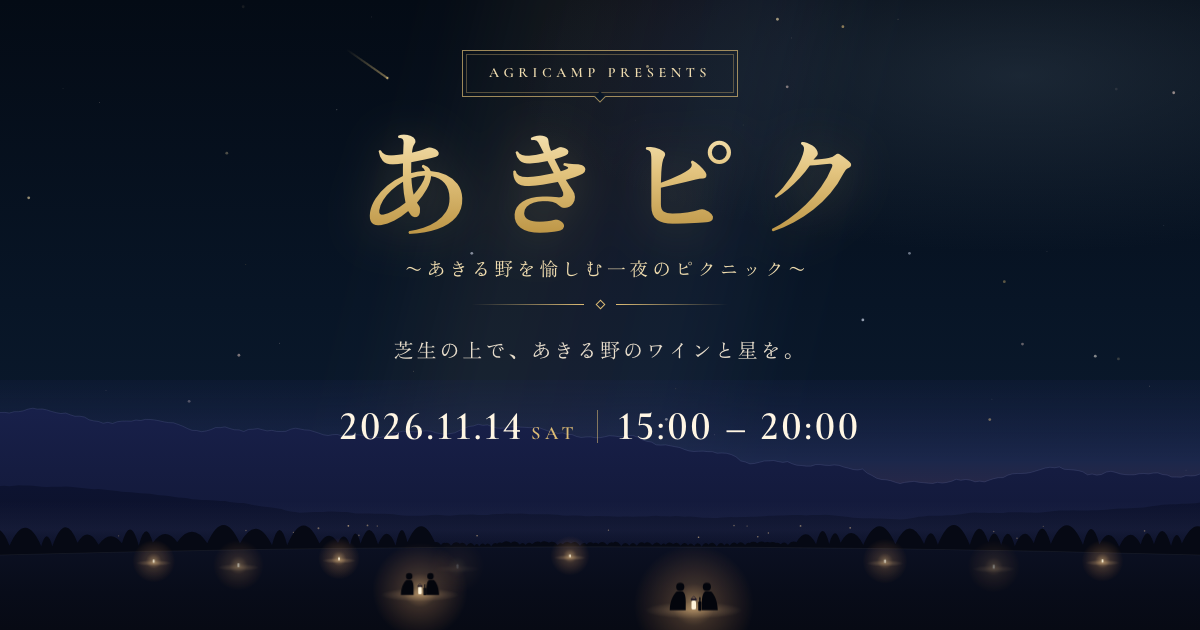
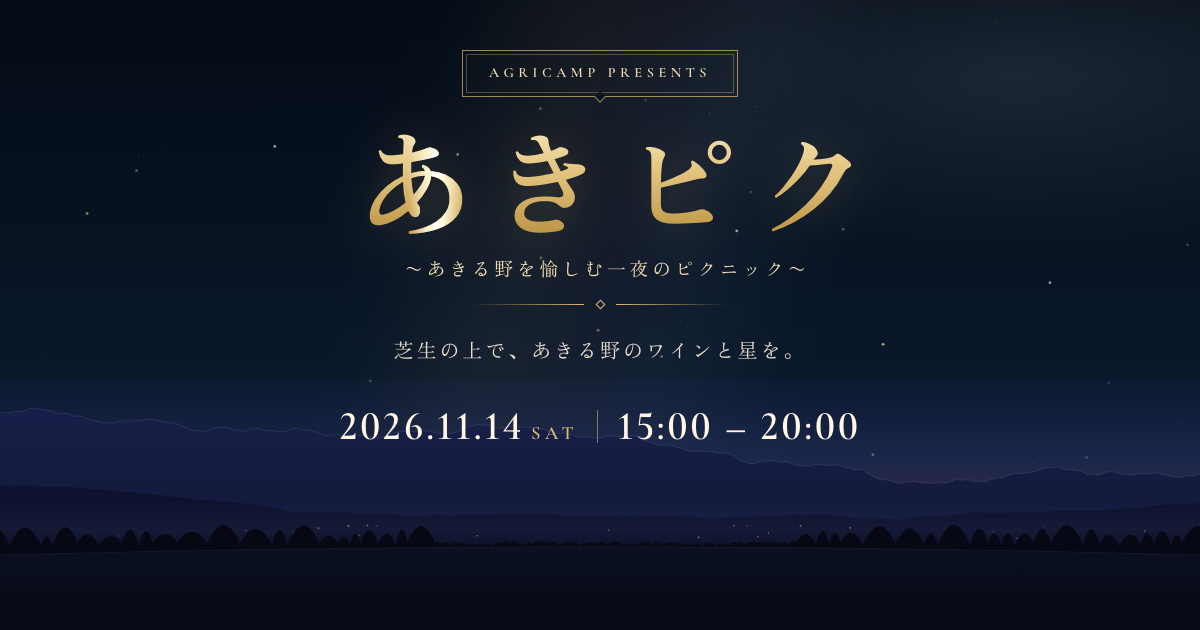
参加費を4,500円に変更し、ふくまれるものを用具・飲食に分けて掲載

diff --git a/index.html b/index.html
@@ -27,7 +27,7 @@
   "location":{"@type":"Place","name":"都立秋留台公園 芝生広場",
     "address":{"@type":"PostalAddress","streetAddress":"二宮673-1","addressLocality":"あきる野市","addressRegion":"東京都","postalCode":"197-0814","addressCountry":"JP"}},
   "organizer":{"@type":"Organization","name":"AgriCamp","email":"agricamp10@gmail.com"},
-  "offers":{"@type":"Offer","price":"4000","priceCurrency":"JPY","availability":"https://schema.org/PreOrder","validFrom":"2026-10-01T00:00+09:00"}
+  "offers":{"@type":"Offer","price":"4500","priceCurrency":"JPY","availability":"https://schema.org/PreOrder","validFrom":"2026-10-01T00:00+09:00"}
 }
 </script>
 <!-- 順延したときの直し方：eventStatus を "https://schema.org/EventRescheduled" にし、
@@ -390,10 +390,17 @@
   .price-num small{ font-family:var(--sans); font-weight:400; font-size:.9rem; letter-spacing:.1em; color:var(--ink-sub); margin-left:.4em }
   .price-card p:last-child{ margin:0 }
   .incl-ttl{ margin:clamp(40px,5vw,64px) 0 1.4rem; text-align:center; font-family:var(--mincho); font-size:1rem; letter-spacing:.2em; color:var(--navy-900) }
-  .incl{ list-style:none; margin:0; padding:0; display:grid; gap:clamp(10px,1.4vw,18px); grid-template-columns:repeat(6,minmax(0,1fr)) }
-  @media (max-width:960px){ .incl{ grid-template-columns:repeat(3,minmax(0,1fr)) } }
-  @media (max-width:520px){ .incl{ grid-template-columns:repeat(2,minmax(0,1fr)) } }
-  .incl li{ display:flex; flex-direction:column; align-items:center; text-align:center; gap:.6rem;
+  .incl{ list-style:none; margin:0; padding:0; display:grid; gap:clamp(10px,1.4vw,18px);
+         grid-template-columns:repeat(4,minmax(0,1fr)) }
+  @media (max-width:860px){ .incl{ grid-template-columns:repeat(3,minmax(0,1fr)) } }
+  @media (max-width:520px){ .incl{ grid-template-columns:repeat(2,minmax(0,1fr)); gap:10px } }
+  .incl-sub{ display:flex; align-items:center; justify-content:center; gap:.9rem; margin:clamp(28px,3vw,40px) 0 1rem;
+             font-family:var(--mincho); font-size:.95rem; letter-spacing:.18em; color:var(--navy-900) }
+  .incl-sub::before, .incl-sub::after{ content:""; width:1.4rem; height:1px; background:var(--gold) }
+  .incl-sub span{ font-family:var(--sans); font-size:.75rem; letter-spacing:.08em; color:var(--ink-sub) }
+  /* 「トマトガーリックトースト」のような長いカタカナは、文節ではなく折り返し可にする */
+  .incl li{ word-break:normal; overflow-wrap:anywhere;
+    display:flex; flex-direction:column; align-items:center; text-align:center; gap:.6rem;
     padding:1.6rem .8rem 1.3rem; background:var(--paper); border:1px solid var(--rule); border-radius:4px; font-size:.9rem; line-height:1.6 }
   .incl svg, .ico{ width:44px; height:44px; padding:10px; border-radius:50%; background:var(--navy-900);
     stroke:var(--gold-lt); stroke-width:1.3; fill:none; stroke-linecap:round; stroke-linejoin:round; flex-shrink:0 }
@@ -844,7 +851,7 @@
         <dt>日程</dt><dd><b>2026.11.14</b>（土）<span class="note">雨のときは予備日 11月15日（日）→ 11月21日（土）に順延</span></dd>
         <dt>時間</dt><dd><b>15:00 – 20:00</b><span class="note">この時間内なら、来る時間・帰る時間は自由です</span></dd>
         <dt>会場</dt><dd>都立秋留台公園 芝生広場<span class="note">東京都あきる野市二宮673-1</span></dd>
-        <dt>参加費</dt><dd><b>¥4,000</b>（1人）<span class="note">シート・LEDランタンの貸出、ワイン、軽食、バケットつき</span></dd>
+        <dt>参加費</dt><dd><b>¥4,500</b>（1人）<span class="note">ピクニック用具の貸出、ワイン、軽食つき（内容は「参加費」をご覧ください）</span></dd>
         <dt>定員</dt><dd><b>先着20組</b><span class="note">事前予約制です</span></dd>
         <dt>主催</dt><dd>AgriCamp</dd>
       </dl>
@@ -881,17 +888,27 @@
     </header>
     <div class="frame price-card blur-fade">
       <p class="price-card__label">参加費</p>
-      <p class="price-num"><span>¥</span>4,000<small>／1人</small></p>
-      <p class="note">ピクニック用具の貸出込み</p>
+      <p class="price-num"><span>¥</span>4,500<small>／1人</small></p>
+      <p class="note">ピクニック用具の貸出、あきる野のワイン、軽食こみ</p>
     </div>
     <h3 class="incl-ttl blur-fade">ふくまれるもの</h3>
+    <p class="incl-sub blur-fade">ピクニック用具<span>1組にひとそろい</span></p>
     <ul class="incl blur-fade">
-      <li><svg viewBox="0 0 24 24" aria-hidden="true"><rect x="3.5" y="6" width="17" height="12" rx="1"/><path d="M3.5 10h17M3.5 14h17M9 6v12M15 6v12"/></svg>シート<span class="note">1組1枚</span></li>
-      <li><svg viewBox="0 0 24 24" aria-hidden="true"><path d="M9 5h6M10 5V3.5h4V5M8 7h8l-.8 11H8.8z"/><path d="M12 10.5c1 1 1 2.5 0 3.5-1-1-1-2.5 0-3.5zM8 20h8"/></svg>LEDランタン<span class="note">1組1台</span></li>
+      <li><svg viewBox="0 0 24 24" aria-hidden="true"><rect x="3.5" y="6" width="17" height="12" rx="1"/><path d="M3.5 10h17M3.5 14h17M9 6v12M15 6v12"/></svg>レジャーシート</li>
+      <li><svg viewBox="0 0 24 24" aria-hidden="true"><path d="M3.5 10h17l-1.6 9H5.1z"/><path d="M7 10l3-5M17 10l-3-5M9 14v2M12 14v2M15 14v2"/></svg>ピクニックバスケット</li>
+      <li><svg viewBox="0 0 24 24" aria-hidden="true"><rect x="3" y="6" width="14" height="12" rx="2"/><path d="M17 9h3.5v6H17M6.5 9.5v5M10 9.5v5"/></svg>木製ボード</li>
+      <li><svg viewBox="0 0 24 24" aria-hidden="true"><path d="M9 5h6M10 5V3.5h4V5M8 7h8l-.8 11H8.8z"/><path d="M12 10.5c1 1 1 2.5 0 3.5-1-1-1-2.5 0-3.5zM8 20h8"/></svg>LEDランタン</li>
+    </ul>
+    <p class="incl-sub blur-fade">飲みもの・軽食<span>おひとりずつ</span></p>
+    <ul class="incl blur-fade">
       <li><svg viewBox="0 0 24 24" aria-hidden="true"><path d="M7.5 3h9l-.4 5.2a4.2 4.2 0 0 1-8.2 0z"/><path d="M12 12.5V20M8.5 20.5h7M7.8 6.5h8.4"/></svg>あきる野のワイン<span class="note">1人3杯程度<br>提供のしかたは準備中</span></li>
-      <li><svg viewBox="0 0 24 24" aria-hidden="true"><path d="M3.5 10h17l-1.6 9H5.1z"/><path d="M7 10l3-5M17 10l-3-5M9 14v2M12 14v2M15 14v2"/></svg>軽食</li>
-      <li><svg viewBox="0 0 24 24" aria-hidden="true"><path d="M5 19c-1.5-1.5-.5-4 2-6.5l6-6c2.5-2.5 5-3.5 6.5-2s.5 4-2 6.5l-6 6C9 19.5 6.5 20.5 5 19z"/><path d="M9 12l2 2M12 9l2 2M15 6.5l1.5 1.5"/></svg>バケット</li>
-      <li><svg viewBox="0 0 24 24" aria-hidden="true"><path d="M5 7h14l-1.2 13H6.2z"/><path d="M9 7V4.5h6V7M3.5 7h17"/></svg>ゴミの回収<span class="note">スタッフが回収</span></li>
+      <li><svg viewBox="0 0 24 24" aria-hidden="true"><path d="M6.5 8h11l-1.3 11H7.8z"/><path d="M15 3.5l-2.2 4.5M6.5 11.5h11"/></svg>ノンアルコール飲料</li>
+      <li><svg viewBox="0 0 24 24" aria-hidden="true"><path d="M8 3.5h8l-.6 4.2a3.7 3.7 0 0 1-6.8 0z"/><path d="M12 12v7.5M9 20h6"/></svg>ワイングラス</li>
+      <li><svg viewBox="0 0 24 24" aria-hidden="true"><circle cx="12" cy="12" r="8"/><path d="M8.6 9.4l6.8 4.8M10.6 7.4l5.9 4M7.4 12.4l4.9 3.5"/></svg>カンパーニュ</li>
+      <li><svg viewBox="0 0 24 24" aria-hidden="true"><path d="M6 8.5c0-2 2.7-3.5 6-3.5s6 1.5 6 3.5v9.5a1 1 0 0 1-1 1H7a1 1 0 0 1-1-1z"/><path d="M9.5 12h5M9.5 15h3"/></svg>トマトガーリックトースト</li>
+      <li><svg viewBox="0 0 24 24" aria-hidden="true"><path d="M4 16.5c2.8-6 8-10 14-11.2l1.8 3c-1.8 6-5.8 10-11.6 12z"/><path d="M9.2 12.6h.01M12.2 10.4h.01M11 14.2h.01"/></svg>生ハム</li>
+      <li><svg viewBox="0 0 24 24" aria-hidden="true"><path d="M3.5 15l8.5-6.5L20.5 12v3.5a1 1 0 0 1-1 1h-15a1 1 0 0 1-1-1z"/><circle cx="8.5" cy="14" r="1"/><circle cx="14.5" cy="13.4" r="1.2"/></svg>チーズ</li>
+      <li><svg viewBox="0 0 24 24" aria-hidden="true"><rect x="3" y="9" width="18" height="6.5" rx="3.25"/><path d="M8.2 9v6.5M12 9v6.5M15.8 9v6.5"/></svg>おしぼり</li>
     </ul>
   </div>
 </section>
@@ -1062,7 +1079,7 @@
           <dt>日付</dt><dd><span class="en">2026.11.14</span> 土<br><span class="note">予備日 11.15／11.21</span></dd>
           <dt>時間</dt><dd><span class="en">15:00 – 20:00</span></dd>
           <dt>会場</dt><dd>都立秋留台公園 芝生広場</dd>
-          <dt>参加費</dt><dd><span class="en">¥4,000</span> ／1人</dd>
+          <dt>参加費</dt><dd><span class="en">¥4,500</span> ／1人</dd>
         </dl>
         <div class="ticket__perf" aria-hidden="true"></div>
         <p class="ticket__foot">ADMIT ONE ・ AKIRUNO</p>
